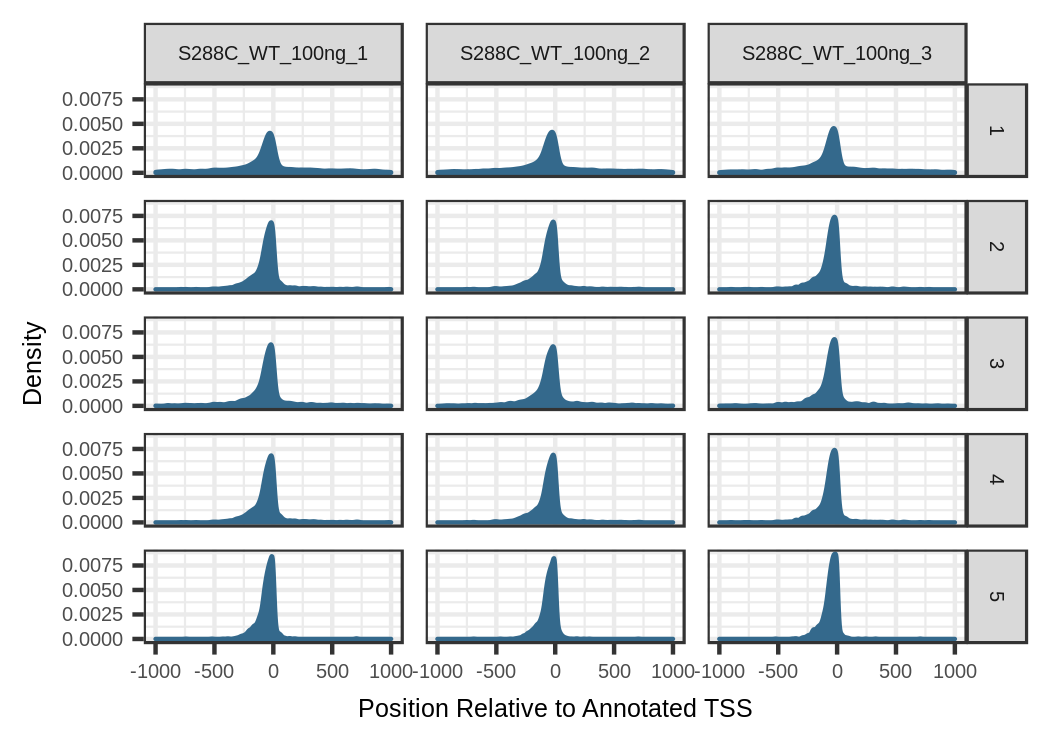
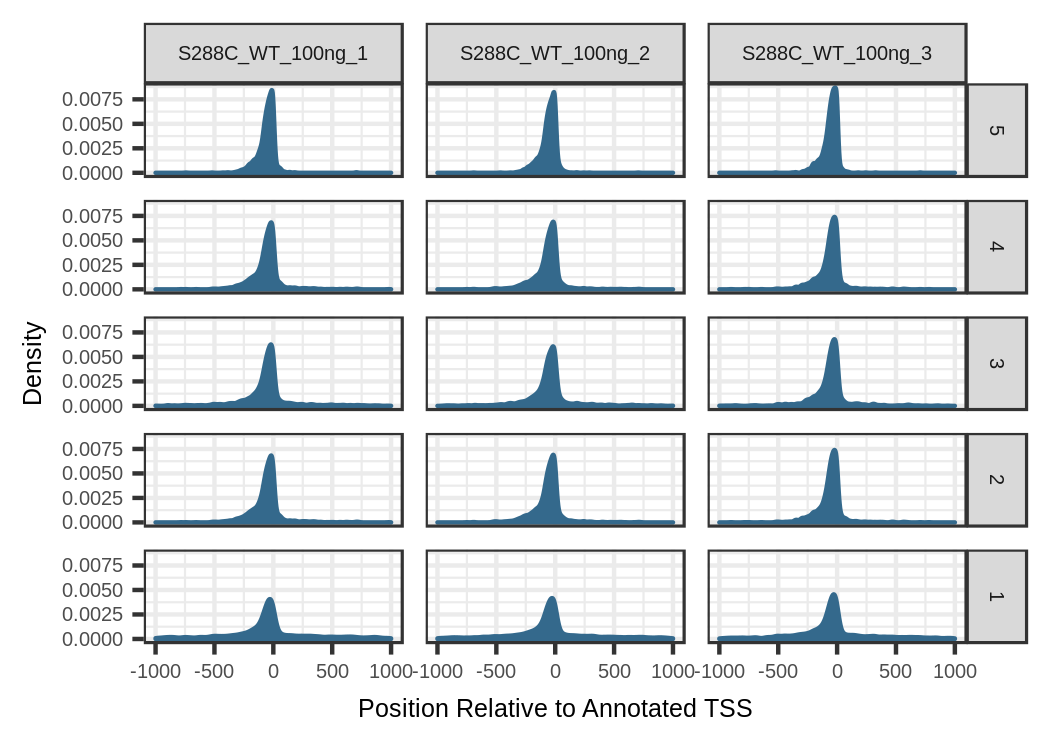
plotting quantiles from top quantile downward

diff --git a/README.md b/README.md
@@ -96,7 +96,7 @@ ggsave("tss_genomic_distribution.png", plot = p, device = "png", type = "cairo",
 It is also possible to plot genomic distribution based on the quantile of the TSS score.
 
 ```
-tss_distribution <- genomic_distribution(exp, data_type = "tss", threshold = 3, quantiles = 5)
+genomic_dist <- genomic_distribution(exp, data_type = "tss", threshold = 3, quantiles = 5)
 
 p <- plot_genomic_distribution(genomic_dist) +
 	theme(text = element_text(size = 6))
